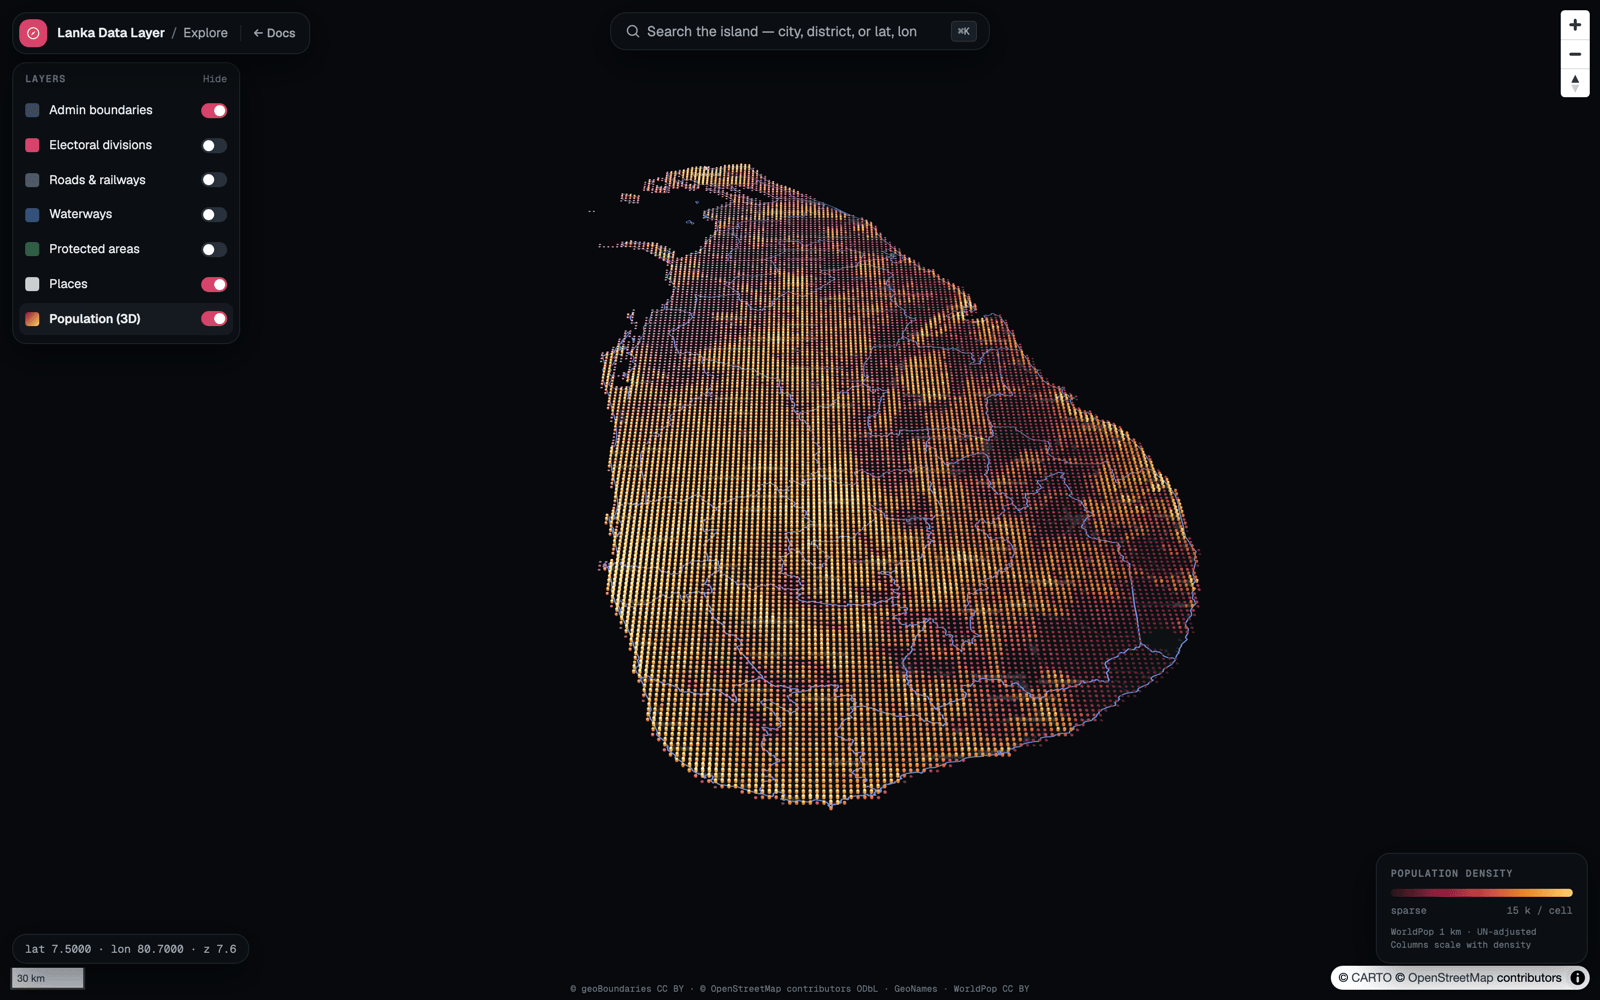
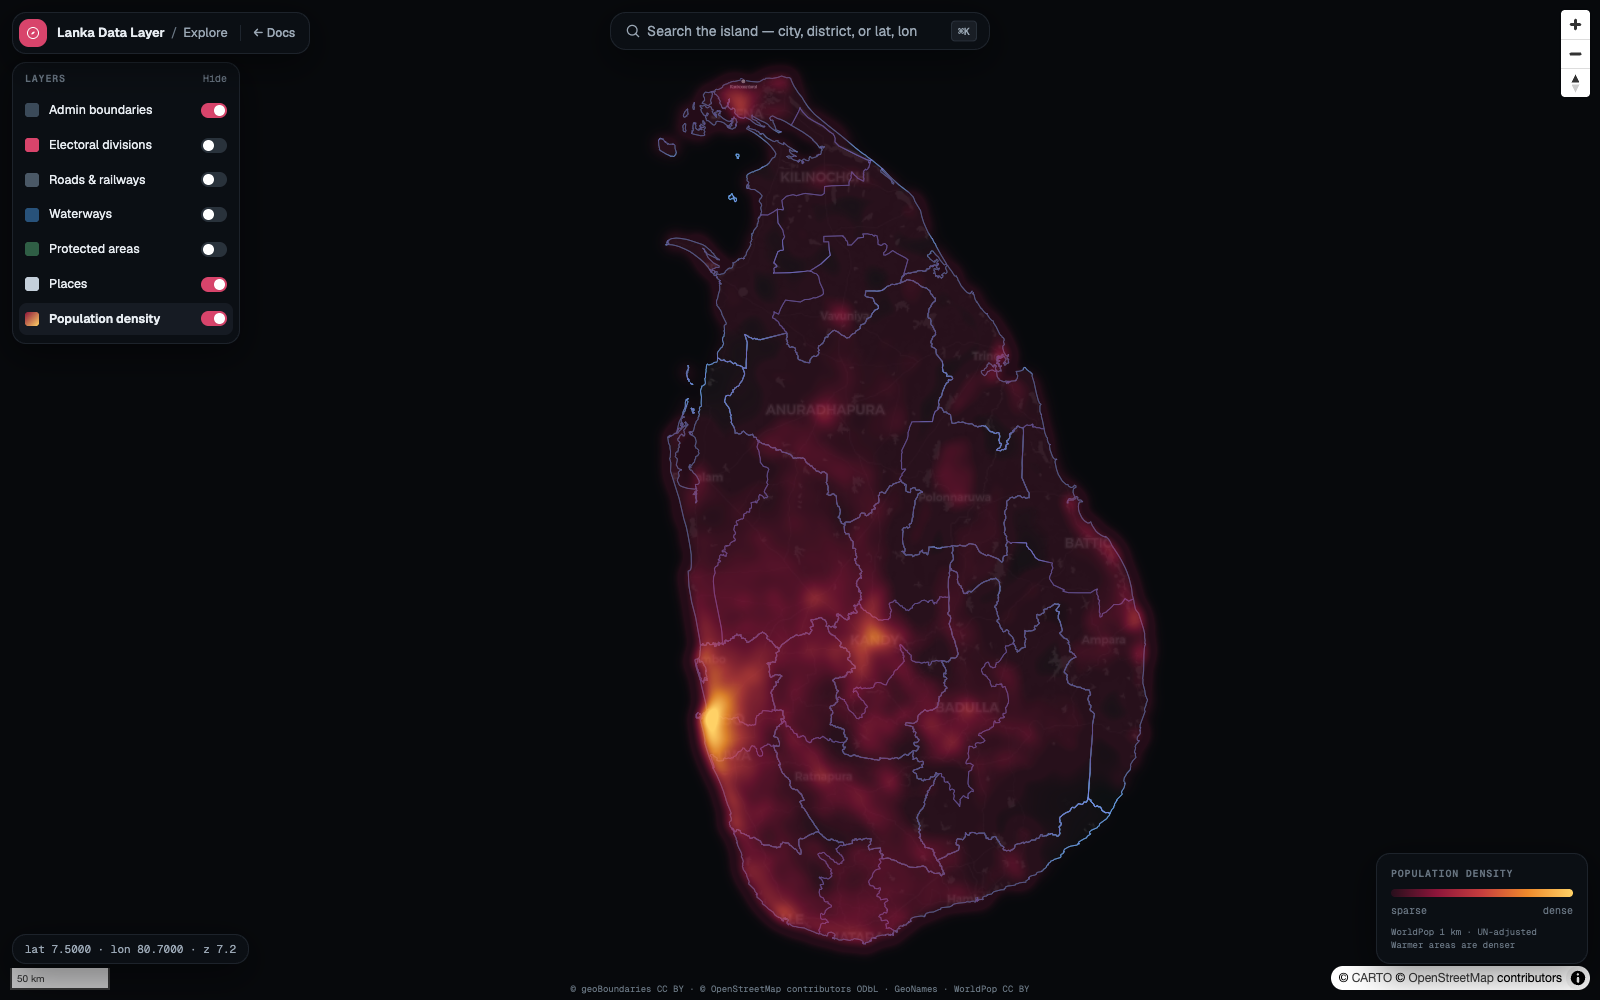
docs: refresh readme with heatmap screenshots and published packages
Hero screenshot replaced with the new flat population-density heatmap
(the 3D column layer is retired), and the explore-selection shot now
shows Kandy District's expanded card with the Census 2024 age/sex and
demographics sections over the heatmap. The npm packages table links to
the published registry pages with live version badges, and the feature
tour copy follows the layer's new name and the card's census profile.

diff --git a/README.md b/README.md
@@ -3,7 +3,7 @@
 **Sri Lanka's open geo-data API** — reverse geocoding, universal search, postal codes, population, and election results for every GN division, DS division, district, and province on the island, plus a map platform built on top of it. Free, open source, no API keys.
 
 <p align="center">
-  <img src="docs/screenshots/explore-population.png" alt="Sri Lanka rendered as a tilted 3D column map, each column's height and color driven by WorldPop gridded population density" width="820">
+  <img src="docs/screenshots/explore-population.png" alt="Sri Lanka rendered as a population density heatmap — Colombo, Kandy, Jaffna and Galle glow warm against a dark island, with district boundaries and a legend" width="820">
 </p>
 
 All spatial computation happens offline, ahead of time, so the API itself is just a fast, cacheable read — reverse geocoding is one indexed SQLite lookup, not a live point-in-polygon query.
@@ -32,13 +32,13 @@ Every endpoint page has a live "Try it" panel: real request parameters, a **Send
 
 ### Explore map
 
-The map explorer resolves any search into a highlighted boundary or point and a detail card. The card's core fields (population, area, admin hierarchy, postal codes) render immediately from one request; secondary sections (nearby-population context, source attribution) load progressively as each upstream source responds, each carrying its own attribution rather than one blended credit line. The highlight stays pinned to the map while the card loads, and the card itself can be pinned open while you keep browsing.
+The map explorer resolves any search into a highlighted boundary or point and a detail card. The card's core fields (population, area, admin hierarchy, postal codes) render immediately from one request; secondary sections load progressively as each upstream source responds, each carrying its own attribution rather than one blended credit line. For census-covered units the card carries a full demographic profile — male/female split, age structure, dependency ratio, ethnicity and religion — sourced from the 2024 Census of Population and Housing. The highlight stays pinned to the map while the card loads, and the card itself can be pinned open while you keep browsing.
 
 <p align="center">
-  <img src="docs/screenshots/explore-selection.png" alt="Map explorer with the Nugegoda GN division highlighted and its detail card open, showing population, area, administrative hierarchy, and postal codes" width="820">
+  <img src="docs/screenshots/explore-selection.png" alt="Map explorer with Kandy District highlighted over the density heatmap, its detail card expanded with population, area, hierarchy, age and sex structure, dependency ratio, and ethnicity and religion breakdowns from Census 2024" width="820">
 </p>
 
-Toggle **Population (3D)** in the layer panel and the camera tilts into a column view of WorldPop's gridded density — the hero image at the top of this README is that layer over the island's southwest.
+Toggle **Population density** in the layer panel for a flat heatmap of WorldPop's gridded counts — the hero image at the top of this README is that layer over the whole island, with the south-western wet zone, Kandy, and Jaffna reading as the warm cores they are.
 
 ### Universal search
 
@@ -118,14 +118,14 @@ All endpoints return `{ success, message, payload, meta }`, where `meta` carries
 
 ## npm packages
 
-Don't want to call (or host) an API? The core datasets also ship as standalone npm libraries — zero runtime dependencies, data bundled in, working offline in Node 18+, browsers, and edge runtimes:
+Don't want to call (or host) an API? The core datasets also ship as standalone npm libraries, published to the public registry with provenance attestation — zero runtime dependencies, data bundled in, working offline in Node 18+, browsers, and edge runtimes:
 
-| Package | What you get | Install size (packed) |
+| Package | What you get | Packed |
 | --- | --- | --- |
-| `@lanka-data-layer/admin` | 14,417 admin units (province → GN division), trilingual names, hierarchy walking, name search | ~830 kB |
-| `@lanka-data-layer/postal` | 1,833 postal codes: lookup, office search, per-division codes, nearest-code by coordinates | ~320 kB |
-| `@lanka-data-layer/electoral` | Elections, electoral divisions, and full per-division results with turnout and party shares | ~86 kB |
-| `@lanka-data-layer/census` | 2024 census demographics per unit — age/sex structure, ethnicity, religion, 2012 comparisons | ~73 kB |
+| [`@lanka-data-layer/admin`](https://www.npmjs.com/package/@lanka-data-layer/admin) [![npm](https://img.shields.io/npm/v/%40lanka-data-layer%2Fadmin)](https://www.npmjs.com/package/@lanka-data-layer/admin) | 14,417 admin units (province → GN division), trilingual names, hierarchy walking, name search | ~830 kB |
+| [`@lanka-data-layer/postal`](https://www.npmjs.com/package/@lanka-data-layer/postal) [![npm](https://img.shields.io/npm/v/%40lanka-data-layer%2Fpostal)](https://www.npmjs.com/package/@lanka-data-layer/postal) | 1,833 postal codes: lookup, office search, per-division codes, nearest-code by coordinates | ~320 kB |
+| [`@lanka-data-layer/electoral`](https://www.npmjs.com/package/@lanka-data-layer/electoral) [![npm](https://img.shields.io/npm/v/%40lanka-data-layer%2Felectoral)](https://www.npmjs.com/package/@lanka-data-layer/electoral) | Elections, electoral divisions, and full per-division results with turnout and party shares | ~86 kB |
+| [`@lanka-data-layer/census`](https://www.npmjs.com/package/@lanka-data-layer/census) [![npm](https://img.shields.io/npm/v/%40lanka-data-layer%2Fcensus)](https://www.npmjs.com/package/@lanka-data-layer/census) | 2024 census demographics per unit — age/sex structure, ethnicity, religion, 2012 comparisons | ~73 kB |
 
 ```ts
 import { getUnit, searchByName } from "@lanka-data-layer/admin";
